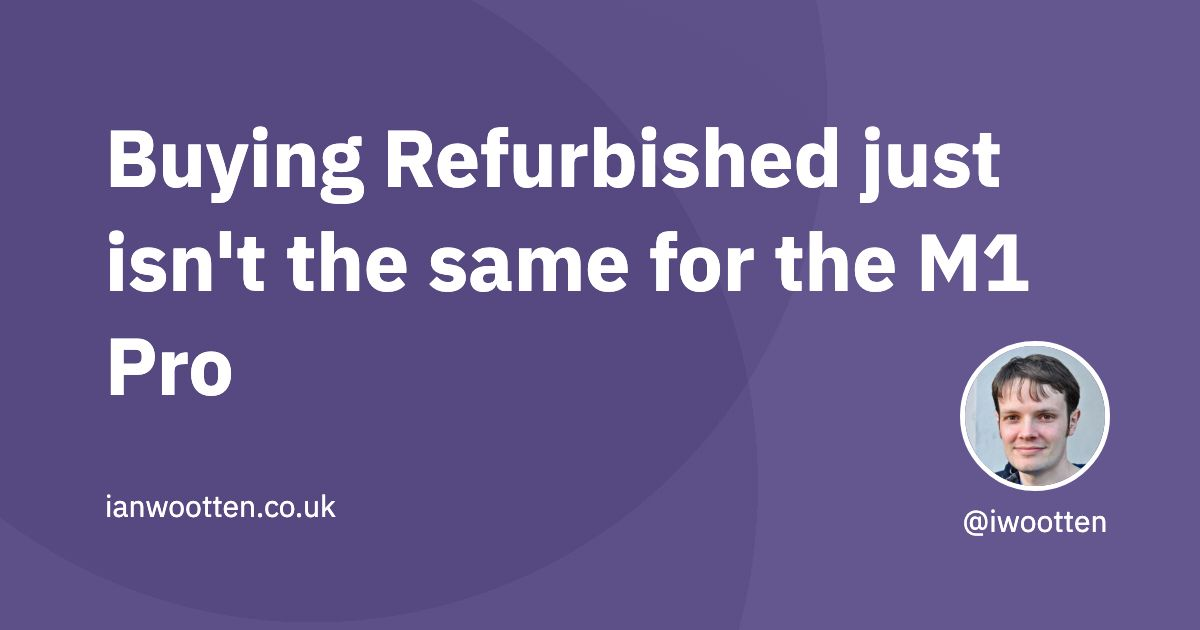
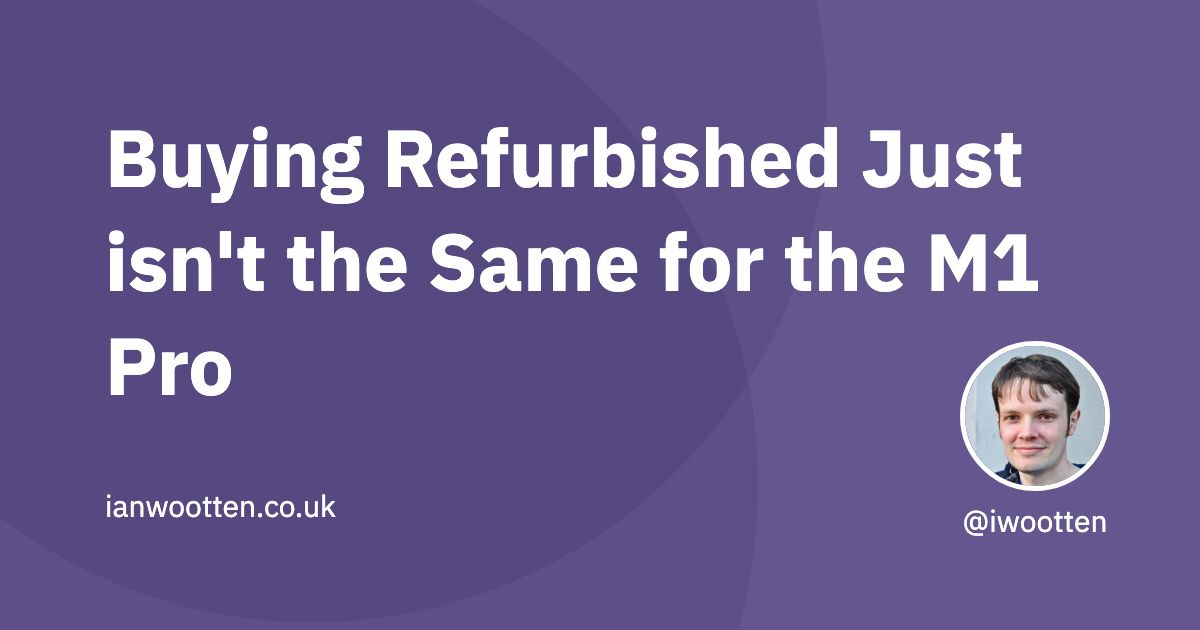
update blog

Changed region(s): [[0.3392, 0.3619, 0.8633, 0.4825], [0.7092, 0.181, 0.8633, 0.3317]]

diff --git a/2022/04/10/buying-refurbished-just-isnt-the-same-for-the-m1-pro/index.html b/2022/04/10/buying-refurbished-just-isnt-the-same-for-the-m1-pro/index.html
@@ -17,7 +17,7 @@
     
     
 
-<title>Buying Refurbished just isn&#39;t the same for the M1 Pro - Ian Wootten</title>
+<title>Buying Refurbished Just isn&#39;t the Same for the M1 Pro - Ian Wootten</title>
 <script type="application/ld+json">
 {
     "@context" : "http://schema.org",
@@ -27,8 +27,8 @@
          "@id": "https:\/\/www.ianwootten.co.uk"
     },
     "articleSection" : "posts",
-    "name" : "Buying Refurbished just isn\u0027t the same for the M1 Pro",
-    "headline" : "Buying Refurbished just isn\u0027t the same for the M1 Pro",
+    "name" : "Buying Refurbished Just isn\u0027t the Same for the M1 Pro",
+    "headline" : "Buying Refurbished Just isn\u0027t the Same for the M1 Pro",
     "description" : "Over the last 11 Years, I\u0026rsquo;ve gone from PC die hard to owning 4 different Macs for development. There\u0026rsquo;s one place I\u0026rsquo;ve bought them all over this time and that\u0026rsquo;s through the Apple Certified Refurbished store (US, UK). If you\u0026rsquo;re not familiar with it, this is where Apple resells returned hardware which has undergone a thorough certification process at a discount to customers. Best of all, it comes with the same 1 year warranty as if you bought it brand new from Apple.",
     "inLanguage" : "en-US",
     "author" : "",
@@ -49,10 +49,10 @@
 <meta name="twitter:card" content="summary_large_image"/>
 <meta name="twitter:image" content="https://www.ianwootten.co.uk/images/refurb-m1-pro/opengraph.jpg"/>
 
-<meta name="twitter:title" content="Buying Refurbished just isn&#39;t the same for the M1 Pro"/>
+<meta name="twitter:title" content="Buying Refurbished Just isn&#39;t the Same for the M1 Pro"/>
 <meta name="twitter:description" content="Over the last 11 Years, I&rsquo;ve gone from PC die hard to owning 4 different Macs for development. There&rsquo;s one place I&rsquo;ve bought them all over this time and that&rsquo;s through the Apple Certified Refurbished store (US, UK). If you&rsquo;re not familiar with it, this is where Apple resells returned hardware which has undergone a thorough certification process at a discount to customers. Best of all, it comes with the same 1 year warranty as if you bought it brand new from Apple."/>
 
-<meta property="og:title" content="Buying Refurbished just isn&#39;t the same for the M1 Pro" />
+<meta property="og:title" content="Buying Refurbished Just isn&#39;t the Same for the M1 Pro" />
 <meta property="og:description" content="Over the last 11 Years, I&rsquo;ve gone from PC die hard to owning 4 different Macs for development. There&rsquo;s one place I&rsquo;ve bought them all over this time and that&rsquo;s through the Apple Certified Refurbished store (US, UK). If you&rsquo;re not familiar with it, this is where Apple resells returned hardware which has undergone a thorough certification process at a discount to customers. Best of all, it comes with the same 1 year warranty as if you bought it brand new from Apple." />
 <meta property="og:type" content="article" />
 <meta property="og:url" content="https://www.ianwootten.co.uk/2022/04/10/buying-refurbished-just-isnt-the-same-for-the-m1-pro/" /><meta property="og:image" content="https://www.ianwootten.co.uk/images/refurb-m1-pro/opengraph.jpg" /><meta property="article:section" content="posts" />
@@ -186,7 +186,7 @@
             
     <article>
   <header>
-    <h1><a href="https://www.ianwootten.co.uk/2022/04/10/buying-refurbished-just-isnt-the-same-for-the-m1-pro/">Buying Refurbished just isn&#39;t the same for the M1 Pro</a></h1>
+    <h1><a href="https://www.ianwootten.co.uk/2022/04/10/buying-refurbished-just-isnt-the-same-for-the-m1-pro/">Buying Refurbished Just isn&#39;t the Same for the M1 Pro</a></h1>
     
     
 <div class="post__meta">

diff --git a/index.html b/index.html
@@ -186,7 +186,7 @@
     
       <div class="post-list__item">
         <span class="item__title--big">
-          <a href="https://www.ianwootten.co.uk/2022/04/10/buying-refurbished-just-isnt-the-same-for-the-m1-pro/">Buying Refurbished just isn&#39;t the same for the M1 Pro</a>
+          <a href="https://www.ianwootten.co.uk/2022/04/10/buying-refurbished-just-isnt-the-same-for-the-m1-pro/">Buying Refurbished Just isn&#39;t the Same for the M1 Pro</a>
           
         </span>
         <span class="item__date">

diff --git a/2022/04/index.html b/2022/04/index.html
@@ -187,7 +187,7 @@
         
 <li>
   <span class="list__title--small">
-    <a href="https://www.ianwootten.co.uk/2022/04/10/buying-refurbished-just-isnt-the-same-for-the-m1-pro/">Buying Refurbished just isn&#39;t the same for the M1 Pro</a>
+    <a href="https://www.ianwootten.co.uk/2022/04/10/buying-refurbished-just-isnt-the-same-for-the-m1-pro/">Buying Refurbished Just isn&#39;t the Same for the M1 Pro</a>
       
       <time class="pull-right hidden-tablet">Apr 10 &#39;22</time>
       

diff --git a/2022/index.html b/2022/index.html
@@ -187,7 +187,7 @@
         
 <li>
   <span class="list__title--small">
-    <a href="https://www.ianwootten.co.uk/2022/04/10/buying-refurbished-just-isnt-the-same-for-the-m1-pro/">Buying Refurbished just isn&#39;t the same for the M1 Pro</a>
+    <a href="https://www.ianwootten.co.uk/2022/04/10/buying-refurbished-just-isnt-the-same-for-the-m1-pro/">Buying Refurbished Just isn&#39;t the Same for the M1 Pro</a>
       
       <time class="pull-right hidden-tablet">Apr 10 &#39;22</time>
       

diff --git a/categories/hardware/index.html b/categories/hardware/index.html
@@ -187,7 +187,7 @@
         
 <li>
   <span class="list__title--small">
-    <a href="https://www.ianwootten.co.uk/2022/04/10/buying-refurbished-just-isnt-the-same-for-the-m1-pro/">Buying Refurbished just isn&#39;t the same for the M1 Pro</a>
+    <a href="https://www.ianwootten.co.uk/2022/04/10/buying-refurbished-just-isnt-the-same-for-the-m1-pro/">Buying Refurbished Just isn&#39;t the Same for the M1 Pro</a>
       
       <time class="pull-right hidden-tablet">Apr 10 &#39;22</time>
       

diff --git a/posts/index.html b/posts/index.html
@@ -187,7 +187,7 @@
         
 <li>
   <span class="list__title--small">
-    <a href="https://www.ianwootten.co.uk/2022/04/10/buying-refurbished-just-isnt-the-same-for-the-m1-pro/">Buying Refurbished just isn&#39;t the same for the M1 Pro</a>
+    <a href="https://www.ianwootten.co.uk/2022/04/10/buying-refurbished-just-isnt-the-same-for-the-m1-pro/">Buying Refurbished Just isn&#39;t the Same for the M1 Pro</a>
       
       <time class="pull-right hidden-tablet">Apr 10 &#39;22</time>
       

diff --git a/tags/apple/index.html b/tags/apple/index.html
@@ -187,7 +187,7 @@
         
 <li>
   <span class="list__title--small">
-    <a href="https://www.ianwootten.co.uk/2022/04/10/buying-refurbished-just-isnt-the-same-for-the-m1-pro/">Buying Refurbished just isn&#39;t the same for the M1 Pro</a>
+    <a href="https://www.ianwootten.co.uk/2022/04/10/buying-refurbished-just-isnt-the-same-for-the-m1-pro/">Buying Refurbished Just isn&#39;t the Same for the M1 Pro</a>
       
       <time class="pull-right hidden-tablet">Apr 10 &#39;22</time>
       

diff --git a/tags/m1-pro/index.html b/tags/m1-pro/index.html
@@ -187,7 +187,7 @@
         
 <li>
   <span class="list__title--small">
-    <a href="https://www.ianwootten.co.uk/2022/04/10/buying-refurbished-just-isnt-the-same-for-the-m1-pro/">Buying Refurbished just isn&#39;t the same for the M1 Pro</a>
+    <a href="https://www.ianwootten.co.uk/2022/04/10/buying-refurbished-just-isnt-the-same-for-the-m1-pro/">Buying Refurbished Just isn&#39;t the Same for the M1 Pro</a>
       
       <time class="pull-right hidden-tablet">Apr 10 &#39;22</time>
       

diff --git a/tags/m1/index.html b/tags/m1/index.html
@@ -187,7 +187,7 @@
         
 <li>
   <span class="list__title--small">
-    <a href="https://www.ianwootten.co.uk/2022/04/10/buying-refurbished-just-isnt-the-same-for-the-m1-pro/">Buying Refurbished just isn&#39;t the same for the M1 Pro</a>
+    <a href="https://www.ianwootten.co.uk/2022/04/10/buying-refurbished-just-isnt-the-same-for-the-m1-pro/">Buying Refurbished Just isn&#39;t the Same for the M1 Pro</a>
       
       <time class="pull-right hidden-tablet">Apr 10 &#39;22</time>
       

diff --git a/tags/macbook-pro/index.html b/tags/macbook-pro/index.html
@@ -187,7 +187,7 @@
         
 <li>
   <span class="list__title--small">
-    <a href="https://www.ianwootten.co.uk/2022/04/10/buying-refurbished-just-isnt-the-same-for-the-m1-pro/">Buying Refurbished just isn&#39;t the same for the M1 Pro</a>
+    <a href="https://www.ianwootten.co.uk/2022/04/10/buying-refurbished-just-isnt-the-same-for-the-m1-pro/">Buying Refurbished Just isn&#39;t the Same for the M1 Pro</a>
       
       <time class="pull-right hidden-tablet">Apr 10 &#39;22</time>
       

diff --git a/2022/03/21/with-15-in-sales-my-first-digital-product-is-my-most-successful-ever/index.html b/2022/03/21/with-15-in-sales-my-first-digital-product-is-my-most-successful-ever/index.html
@@ -281,7 +281,7 @@
     
     
     <a href="https://www.ianwootten.co.uk/2022/04/10/buying-refurbished-just-isnt-the-same-for-the-m1-pro/" class="navigation-next">
-      <span class="navigation-tittle">Buying Refurbished just isn&#39;t the same for the M1 Pro</span>
+      <span class="navigation-tittle">Buying Refurbished Just isn&#39;t the Same for the M1 Pro</span>
       <i aria-hidden="true" class="fa fa-chevron-right"></i>
     </a>
     
